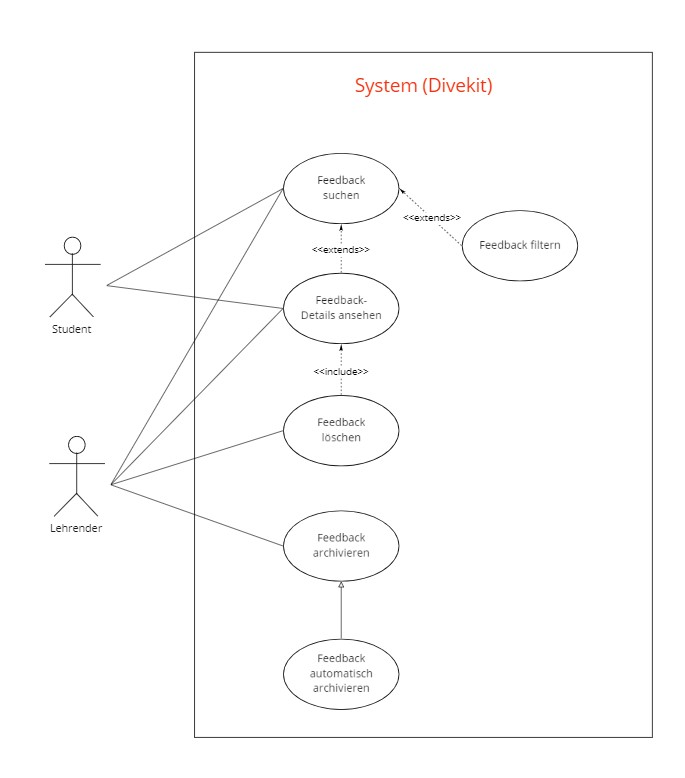
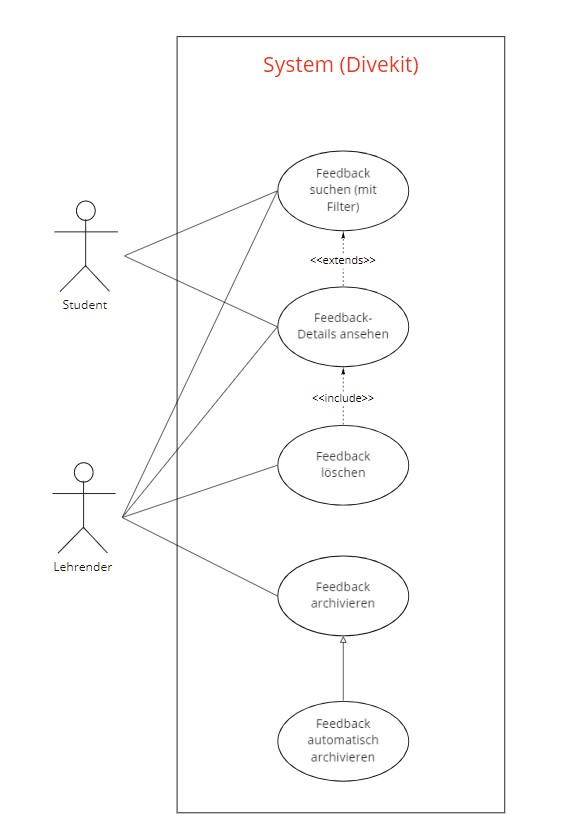
Updated UCdiagram

diff --git a/_useCaseDiagrams/feedbackArchiv.md b/_useCaseDiagrams/feedbackArchiv.md
@@ -14,8 +14,10 @@ history:
     v1:
         date: 2021-07-17
         comment: initially created
+    v2:
+        date: 2021-07-29
+        comment: updated diagram
 todo:  
-    - (sbe) Feedback filtern ist m.E. Teil von Suche nach Feedback, sonst gut
 ---
 
 ## Beschreibung
@@ -23,8 +25,7 @@ todo:
 Das Use-Case Diagramm stellt mögliche Nutzungen des Systemteils "Feedback-Archiv" dar.
 
 Das Feedback-Archiv besteht aus:
-* Suche nach Feedback
-  * Filtern von Feedback
+* Suche nach Feedback (inkl. Filter)
   * Anzeige von Feedback
     * Bearbeitung / Löschen von Feedback
 * Archivierung von Feedback
